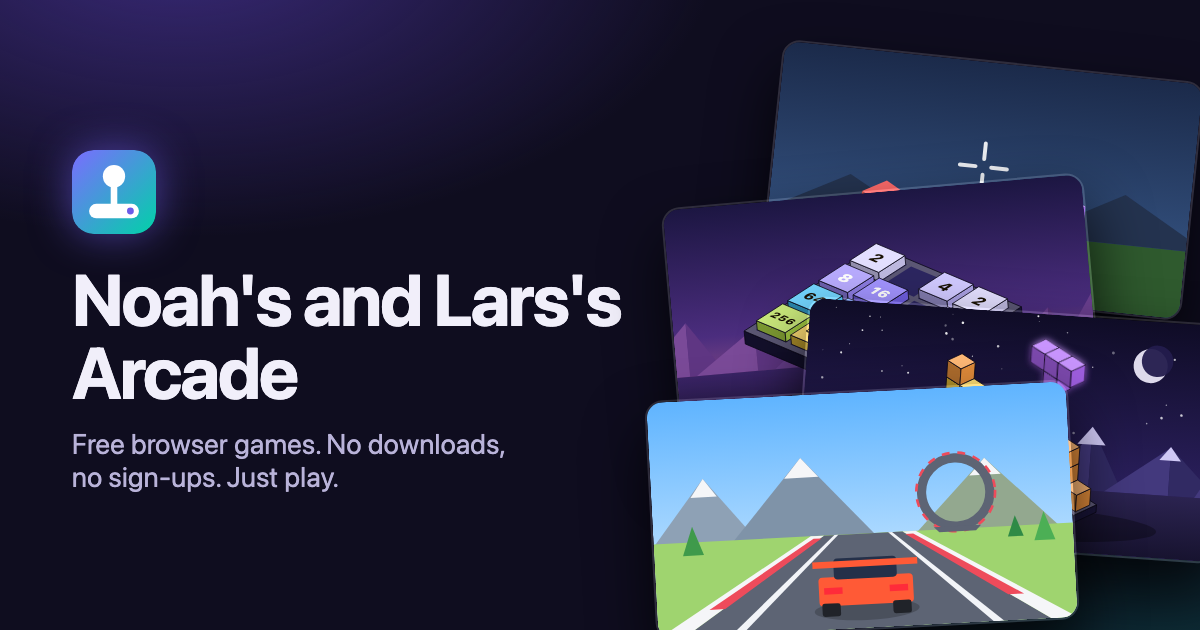
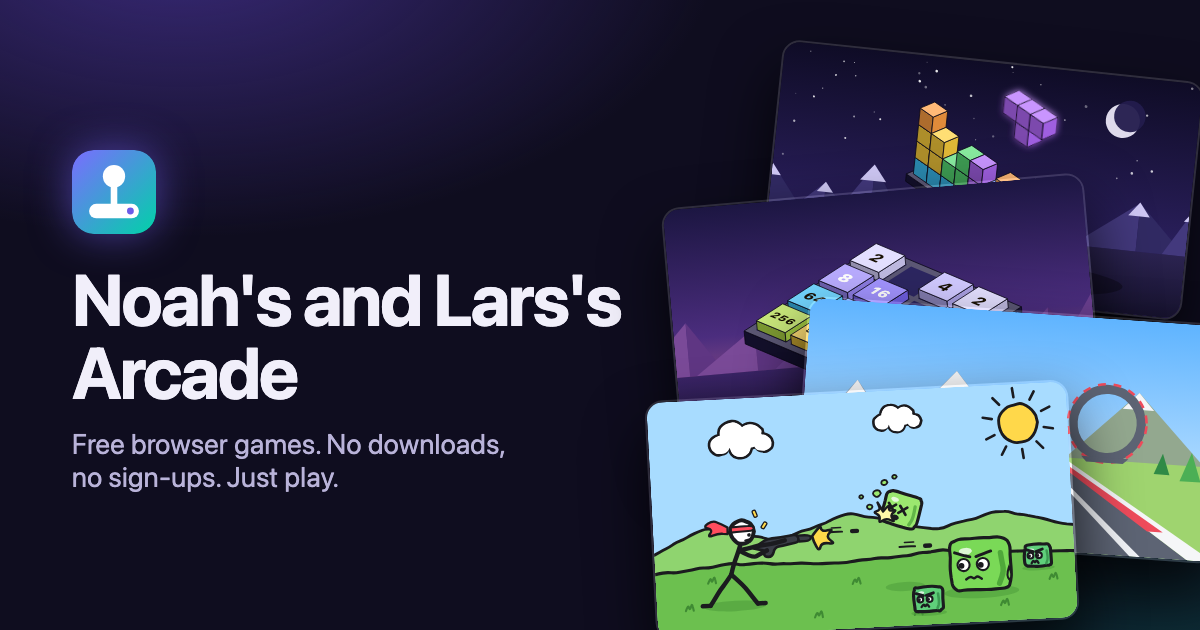
New hand-drawn Cube Assault cover: a stick figure blasting slimes
Cartoon style with wobbly ink outlines and flat colours. Share preview
image updated to lead with it. Cover only; no game code changed.

Changed region(s): [[0.5242, 0.0603, 1.0, 1.0]]

diff --git a/games.js b/games.js
@@ -33,7 +33,7 @@ window.GAMES = [
     keys: [['W A S D', 'Move'], ['Mouse', 'Aim'], ['Click', 'Shoot'], ['Right-click', 'Zoom'], ['Space', 'Jump'],
            ['Shift', 'Sprint'], ['R', 'Reload'], ['1–5', 'Weapons'], ['Esc', 'Pause']],
     path: 'cube-assault/index.html',
-    thumb: 'cube-assault/thumb.svg',
+    thumb: 'cube-assault/thumb.svg?v=3',
     added: '2026-10-13T11:03:05+11:00',
     updated: '2026-10-13T14:17:53+11:00',
     stat() { const p = readSave('cubeAssaultProfile', true); return p && p.best ? 'Best wave ' + p.best : null; },

diff --git a/index.html b/index.html
@@ -95,7 +95,7 @@
   <p>Found a bug, or a game won't load? Email <a class="contact"></a></p>
 </footer>
 
-<script src="games.js?v=5"></script>
+<script src="games.js?v=7"></script>
 <script>
 const $ = id => document.getElementById(id);
 const playUrl = g => 'play.html?game=' + encodeURIComponent(g.id);

diff --git a/play.html b/play.html
@@ -63,7 +63,7 @@
   <p>Found a bug, or the game won't load? Email <a class="contact"></a></p>
 </footer>
 
-<script src="games.js?v=5"></script>
+<script src="games.js?v=7"></script>
 <script>
 const $ = id => document.getElementById(id);
 const id = new URLSearchParams(location.search).get('game');
